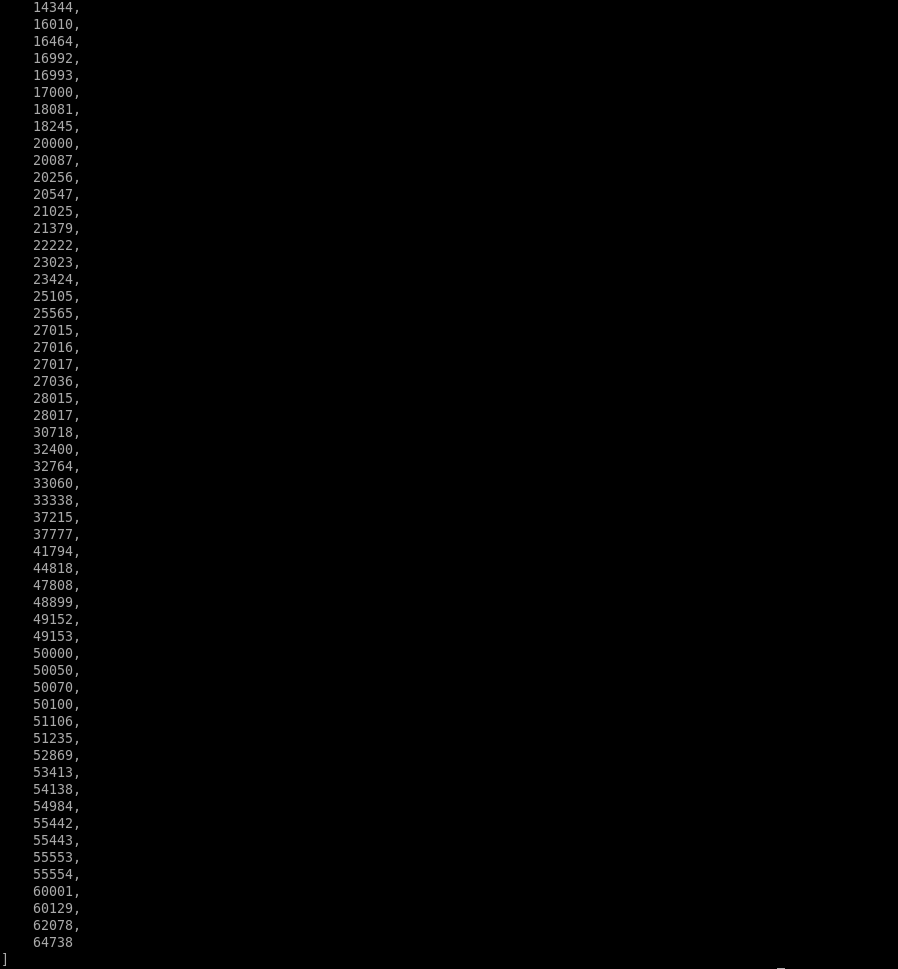
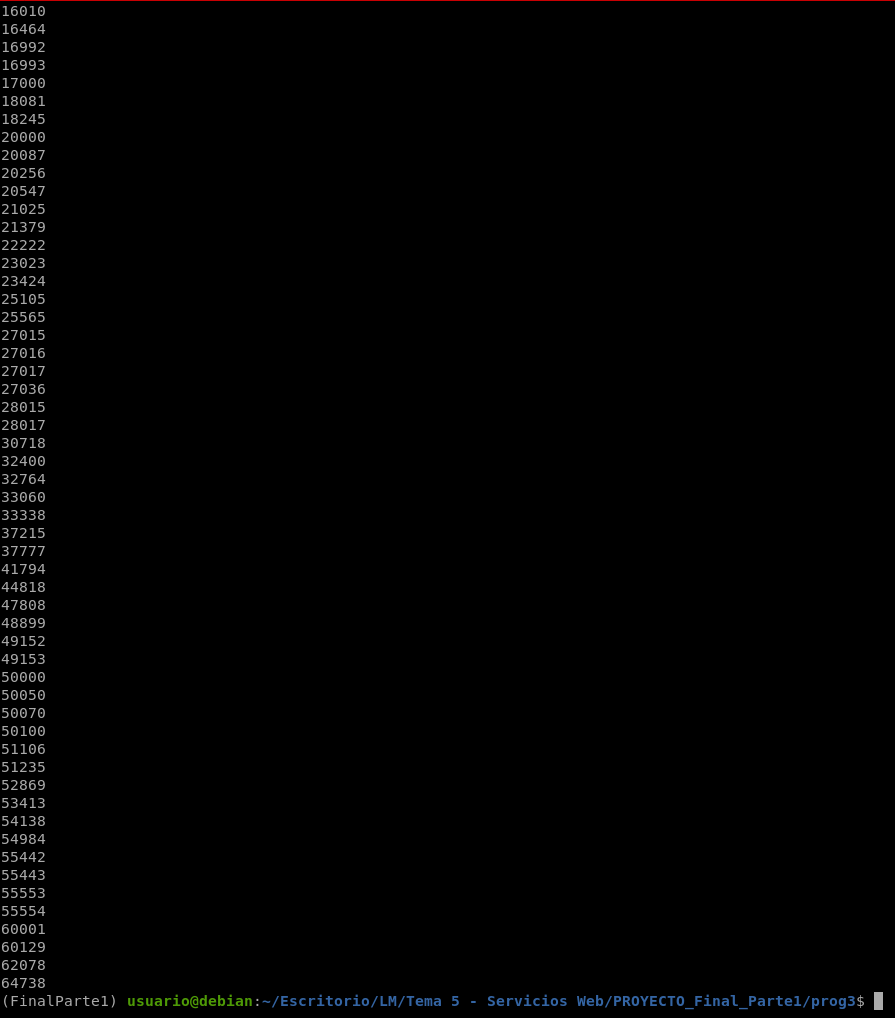
correccion programa3

Changed region(s): [[0.0, 0.0, 0.1207, 0.9907], [0.543, 0.9598, 0.9955, 0.9907], [0.1508, 0.9598, 0.5128, 0.9907]]

diff --git a/prog3/programa3.py b/prog3/programa3.py
@@ -12,7 +12,8 @@ r=requests.get(url,params=payload)
 
 if r.status_code == 200:
     datos=r.json()
-    print(json.dumps(datos,indent=4,sort_keys=True))
+    for i in datos:  
+        print(i)
     
 else:
     print("Error en la busqueda, " ,r.status_code)
